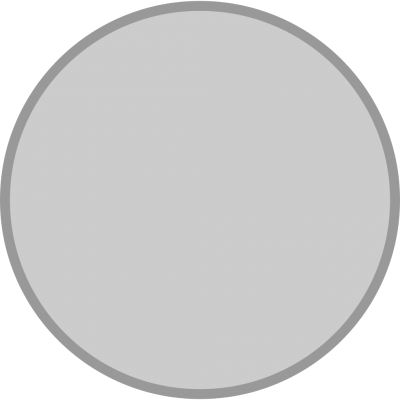
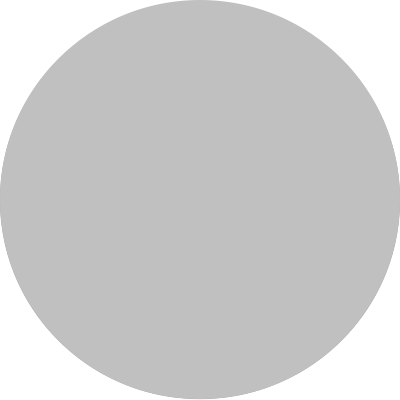
Fixed the target planet image and shadows so they look better

Changed region(s): [[0.0, 0.0, 1.0, 1.0]]

diff --git a/src/TargetPlanetPhase.jsx b/src/TargetPlanetPhase.jsx
@@ -192,7 +192,7 @@ export default class TargetPlanetPhase extends React.Component {
         this.targetPlanet.height = targetPlanetSize;
 
         this.hiddenTargetPlanet.visible = true;
-        this.drawPhase(this.leftShade, this.rightShade, this.convertPhase(targetElongation), targetPlanetSize / 2);
+        this.drawPhase(this.leftShade, this.rightShade, this.convertPhase(targetElongation), 1.0025 * (targetPlanetSize / 2));
     }
 
     animate() {
@@ -232,8 +232,8 @@ export default class TargetPlanetPhase extends React.Component {
         this.app.stage.addChild(hiddenTargetPlanet);
         this.hiddenTargetPlanet = hiddenTargetPlanet;
     }
-    drawPhase(leftShade, rightShade, phase, radius) {
 
+    drawPhase(leftShade, rightShade, phase, radius) {
         this.leftShade.clear();
         this.leftShade.beginFill(0x000000, 0.7);
         this.leftShade.arc(this.center.x * 2, this.center.y * 2,
